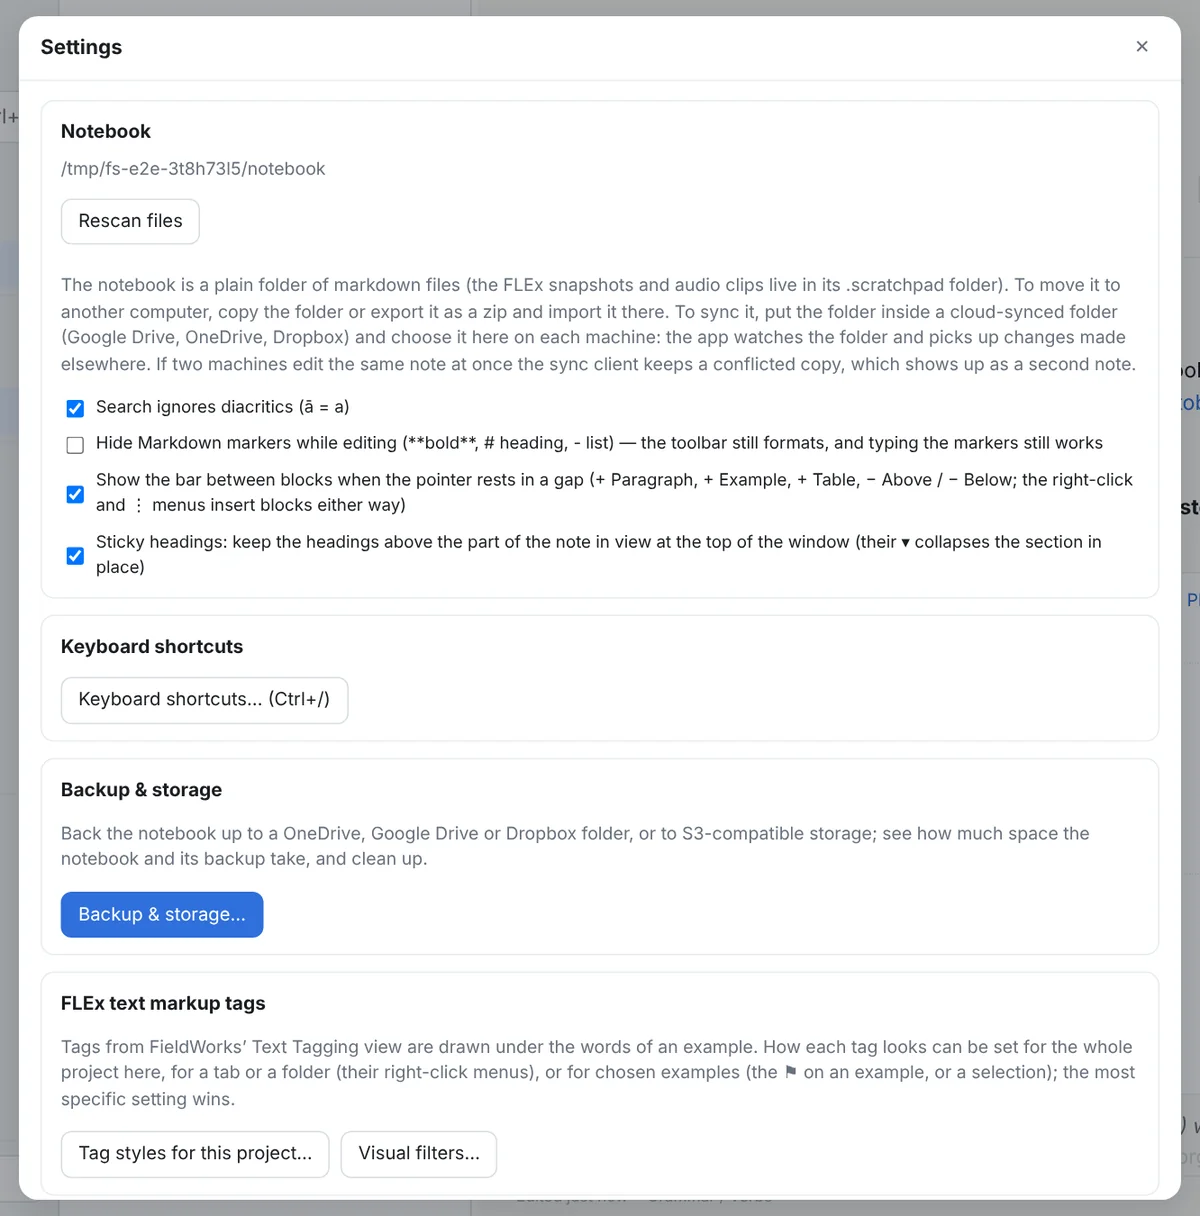
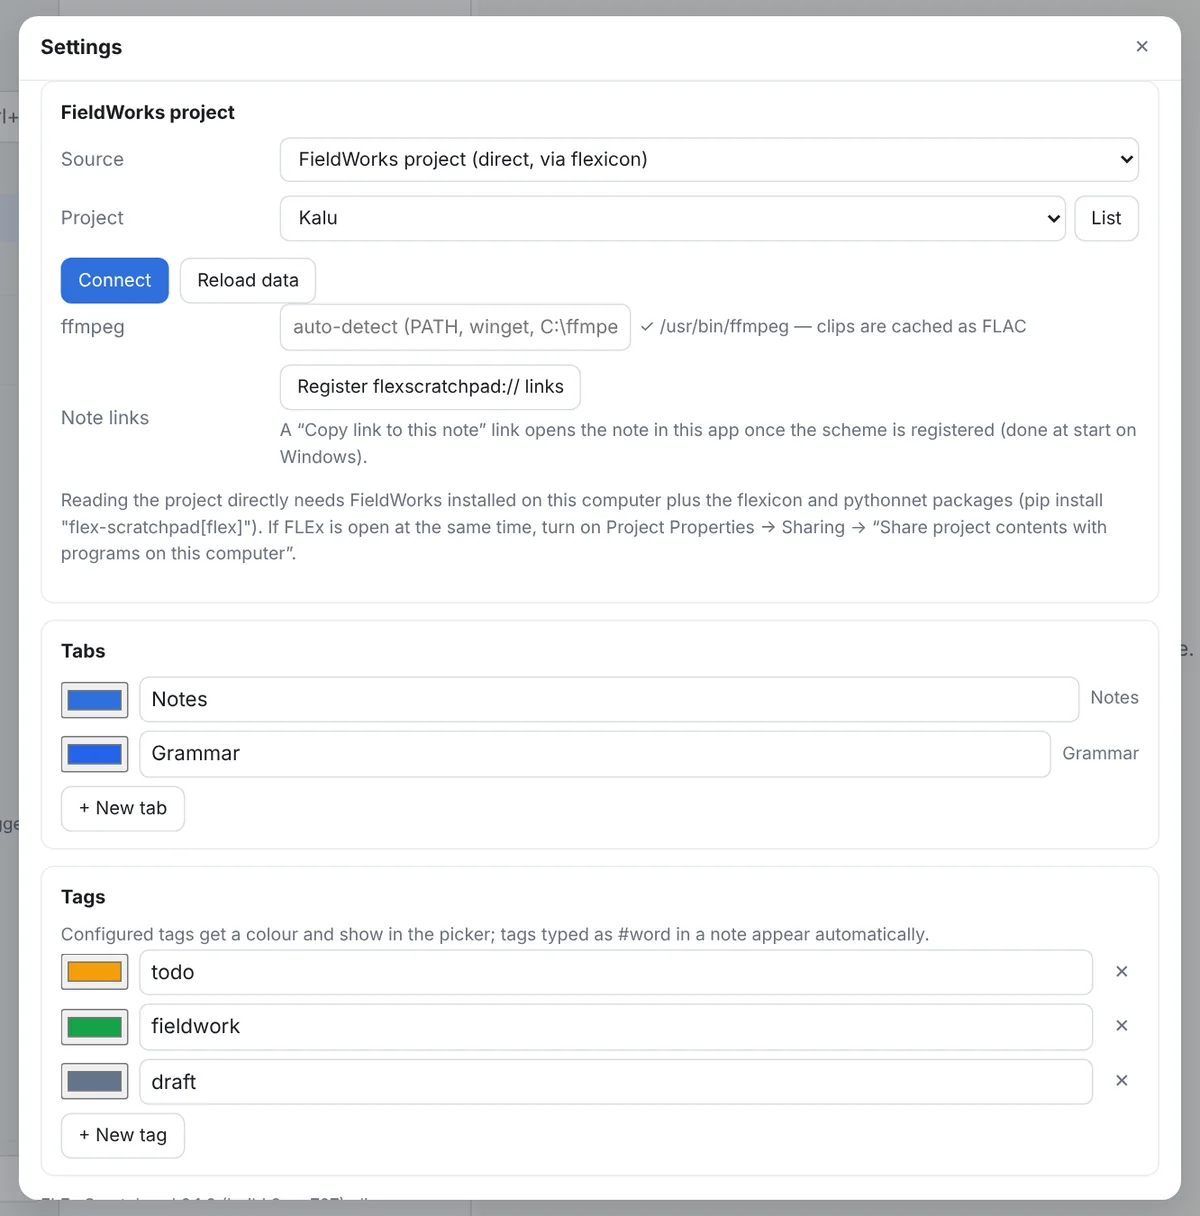
Guide: a FAQ, where FLEx's audio timing comes from, and a Settings picture that lists FieldWorks projects
Seth, 2026-10-20: "recordings depend on the audio segmentation data being
written to FLEx, which can't be done in FLEx directly. If you import ELAN
(maybe SayMore), or from FLExText Editor, then you can have audio data matching
FLEx interlinear text lines. To add such data to texts that already exist in
FLEx as text only, use the FlexText Audio Segmenter tool (FLEx-integrated
release coming soon)"; "add that to the FAQs: 'How do I get audio to match
interlinear text lines in my FLEx Database?'"; and the Settings picture "doesn't
actually show the FLEx project option … users need to see a screenshot where
FLEx projects are listed as a source".

- The guide's audio section says where the start and end times on a text's
  lines come from (a text exported from ELAN as a FLEx file, a FlexText Editor
  file, or the FlexText Audio Segmenter for a text already in FLEx), and that
  FLEx cannot align a recording itself. The home page's audio card, the compare
  table and the README's Play audio row say the same, with the link.
- A new section 15, "Questions people ask", opens with that question and goes on
  to: can it change my project, FieldWorks open at the same time, where the
  notes are, without FieldWorks, release or pre-release, why "snapshot", a paste
  that landed wrong, internet and servers. Both navs link to it as FAQ.
- tools/shoot_guide.py stands in for the project list with three invented names
[…]

diff --git a/docs/guide/index.html b/docs/guide/index.html
@@ -20,6 +20,7 @@
     <a href="../#charts">Charts</a>
     <a href="../#features">Features</a>
     <a class="active" href="./">User guide</a>
+    <a href="#faq">FAQ</a>
     <a href="../#install">Install</a>
     <a data-dl="notes" href="https://github.com/rulingAnts/flex-scratchpad/releases/tag/v0.1.0-beta.2">Release notes</a>
     <a class="nav-gh" href="https://github.com/rulingAnts/flex-scratchpad" target="_blank" rel="noopener">GitHub</a>
@@ -30,7 +31,7 @@
 <div class="guide-wrap">
   <header class="guide-head" id="top">
     <h1>User guide</h1>
-    <p class="lead">Everything FLEx Scratchpad does, in the order you will meet it: the notebook, writing, examples read live from your FieldWorks project, styling and visual filters, audio, collections, text charts and chart notes, searching the charts, exports, backup, and the settings and shortcuts. Every picture is the real program showing its built-in demo project, an invented language.</p>
+    <p class="lead">Everything FLEx Scratchpad does, in the order you will meet it: the notebook, writing, examples read live from your FieldWorks project, styling and visual filters, audio, collections, text charts and chart notes, searching the charts, exports, backup, the settings and shortcuts, and the <a href="#faq">questions people ask</a>. Every picture is the real program showing its built-in demo project, an invented language.</p>
     <div class="meta">
       <span>Describes <b>0.1.0-beta.2</b>, the current release</span>
       <a href="../#install">Install</a>
@@ -64,6 +65,7 @@
       <li><a href="#backup">Backup and storage</a></li>
       <li><a href="#settings">Settings and keyboard shortcuts</a></li>
       <li><a href="#files">Your notes are files</a></li>
+      <li><a href="#faq">Questions people ask</a></li>
       <li><a href="#trouble">When something goes wrong</a></li>
     </ol>
   </details>
@@ -96,6 +98,8 @@
       <li><a href="#settings">Settings and shortcuts</a>
         <ol><li><a href="#se-settings">Settings</a></li><li><a href="#se-keys">Keyboard shortcuts</a></li></ol></li>
       <li><a href="#files">Your notes are files</a></li>
+      <li><a href="#faq">Questions people ask</a>
+        <ol><li><a href="#faq-audio">Audio that matches the lines</a></li><li><a href="#faq-safe">Can it change my project?</a></li><li><a href="#faq-open">FieldWorks open at the same time</a></li><li><a href="#faq-files">Where are my notes?</a></li><li><a href="#faq-nofw">Without FieldWorks</a></li><li><a href="#faq-which">Release or pre-release?</a></li><li><a href="#faq-snapshot">Why "snapshot"?</a></li><li><a href="#faq-paste">A paste landed wrong</a></li><li><a href="#faq-offline">Internet, servers</a></li></ol></li>
       <li><a href="#trouble">When something goes wrong</a></li>
     </ol>
   </nav>
@@ -109,7 +113,7 @@
 
     <h3 id="start-project">Pick your project</h3>
     <p>Install it from the <a href="../#install">download on the home page</a> (an installer or a portable zip; both are the same program) and start it. Open <span class="ui">Settings</span> (the ⚙ button, or <kbd>Ctrl+,</kbd>) and choose the <span class="ui">FLEx project</span>: the list shows the projects FieldWorks has on this computer. The project is opened for reading only. FieldWorks may be open on the same project at the same time; if it refuses to share, the status pill at the top right says so and what to do (in FLEx: <em>Project Properties › Sharing › Share project contents with programs on this computer</em>).</p>
-    <figure class="shot"><img src="../media/guide/settings.webp" loading="lazy" alt="The Settings dialog: the notebook folder, the FLEx project, options, and the links to the tag styles, visual filters and backup"><figcaption>Settings: where the notes live, which project to read, and the doors to tag styles, visual filters and backup.</figcaption></figure>
+    <figure class="shot"><img src="../media/guide/settings.webp" loading="lazy" alt="The Settings dialog: the notebook folder, the FLEx project, options, and the links to the tag styles, visual filters and backup"><figcaption>Settings: where the notes live, the FieldWorks project to read (the source select also takes a <code>.flextext</code> file or the demo), and the doors to tag styles, visual filters and backup. The project names here are invented.</figcaption></figure>
     <p>Two other sources exist for when there is no FieldWorks on the computer: a <code>.flextext</code> file exported from FLEx (texts only), and the built-in <span class="ui">demo</span> project, an invented language used for the pictures in this guide and for trying things out.</p>
     <p>The <span class="ui">notebook</span> is a folder of your choosing (by default <em>Documents\FLEx Scratchpad</em>). Everything you write goes there and nowhere else; see <a href="#files">Your notes are files</a>.</p>
 
@@ -325,7 +329,8 @@
   <section id="audio">
     <h2><span class="num">6</span>Hearing an example</h2>
     <figure class="shot"><img src="../media/guide/audio.webp" loading="lazy" alt="An example playing: ▶ on each line, the playing line lit, and the transport strip with pause, loop and the position"><figcaption>▶ on a line plays that line from the text's recording; the playing line is lit.</figcaption></figure>
-    <p>When a text in FLEx is time-aligned (its lines have begin and end times and a media file), each line of an example has ▶, a range has <span class="ui">Play 1–3</span>, and a transport strip offers pause, loop and scrubbing. The playing line is lit and the note scrolls to it unless you are scrolling yourself; the player stays at the bottom of the view while the example runs on below it. Whenever something plays and its player is not on screen, a <b>Now playing</b> bar at the bottom of the window has pause, stop and the position; <kbd>Esc</kbd> stops.</p>
+    <p>When a text in FLEx is time-aligned (its lines have begin and end times and a media file; <a href="#audio-timing">where that comes from</a>), each line of an example has ▶, a range has <span class="ui">Play 1–3</span>, and a transport strip offers pause, loop and scrubbing. The playing line is lit and the note scrolls to it unless you are scrolling yourself; the player stays at the bottom of the view while the example runs on below it. Whenever something plays and its player is not on screen, a <b>Now playing</b> bar at the bottom of the window has pause, stop and the position; <kbd>Esc</kbd> stops.</p>
+    <div class="note" id="audio-timing"><b>Where the timing comes from.</b> FieldWorks keeps a start and an end time on each line of a text, but has no tool of its own to set them, so a text typed or imported as text alone has no ▶ here. The times arrive with an import: a text exported from <b>ELAN</b> as a FLEx file (SayMore has a FieldWorks export too), or a <b>FlexText Editor</b> file; FieldWorks' interlinear text import keeps the times each line carries. To add them to a text that is already in FLEx as text only, use the <a href="https://audio-segmenter.flextext.app/" target="_blank" rel="noopener">FlexText Audio Segmenter</a>: it aligns a recording to the text's lines and writes a file FLEx imports with the times; a release that works inside FLEx directly is coming soon.</div>
     <p>The first time a line plays, its stretch of the recording is cut and kept in the notebook, so it still plays when the recording is somewhere else. When a text's media file cannot be found, the example says so with <span class="ui">Browse…</span>; the file you pick is remembered for that text and its folder for the others. Charts play too (<a href="#ch-play">Playback</a>) <span class="rel rel-pre" title="In the pre-release 0.1.0-beta.3; not in 0.1.0-beta.2, the current release">beta.3</span>, and the web page and slideshow exports carry the players (<a href="#xp-audio">Audio in the exports</a>) <span class="rel rel-pre" title="In the pre-release 0.1.0-beta.3; not in 0.1.0-beta.2, the current release">beta.3</span>.</p>
   </section>
 
@@ -616,8 +621,45 @@
   </section>
 
   <!-- ============================================================ 15 -->
+  <section id="faq">
+    <h2><span class="num">15</span>Questions people ask</h2>
+    <h3 id="faq-audio">How do I get audio to match the interlinear text lines in my FLEx database?</h3>
+    <p>FieldWorks stores a start and an end time on each line of a text, but it cannot set them itself: it has no tool for aligning a recording to the lines. The times come in with an import. Three ways in:</p>
+    <ul>
+      <li><b>From ELAN.</b> In ELAN, <em>File › Export As › FLEx file</em> writes the text with each annotation's times; FieldWorks' interlinear text import keeps them on the lines. SayMore has a FieldWorks export of its sessions that goes the same way.</li>
+      <li><b>From the FlexText Editor.</b> A <code>.flextext</code> written by the FlexText Editor or the Recorder carries each line's times and the name of the recording; the same import keeps them.</li>
+      <li><b>A text that is already in FLEx, as text only.</b> Use the <a href="https://audio-segmenter.flextext.app/" target="_blank" rel="noopener">FlexText Audio Segmenter</a>: export the text from FLEx, align the recording to its lines there, and import the result; the lines keep their analyses and gain their times. A release that works inside FLEx directly, without the round trip, is coming soon.</li>
+    </ul>
+    <p>Put the recording where FLEx looks for it (the project's <code>LinkedFiles\AudioVisual</code>), and FLEx Scratchpad's ▶ appears on every line of that text; when the file is elsewhere, the example offers <span class="ui">Browse…</span> once and remembers the folder. An <a href="#co-flextext">example collection exported as a FLEx text</a> comes with one recording stitched from its examples, named to pair with it in the Segmenter.</p>
+
+    <h3 id="faq-safe">Can it change my FLEx project?</h3>
+    <p>No. It opens the project for reading only, has no code that writes to one, and its own tests fail if any appears. Everything you write lives in your notebook folder. The only files it makes for FLEx are exports you import yourself, as new texts.</p>
+
+    <h3 id="faq-open">Can FieldWorks be open at the same time?</h3>
+    <p>Yes, when the project is shared: in FLEx, <em>Project Properties › Sharing › Share project contents with programs on this computer</em>. Otherwise FLEx holds the project and the status pill says so; the notes then show their snapshots until it is free. What FieldWorks saves while both are open appears after ↻ on an example or <span class="ui">Refresh all</span>.</p>
+
+    <h3 id="faq-files">Where are my notes, and can I read them without the program?</h3>
+    <p>In the notebook folder you chose (by default <em>Documents\FLEx Scratchpad</em>): a Markdown file per note in a folder per tab. Every example in them is also written as plain text with a link into FLEx, so the files read in any editor, on GitHub, or in ten years. See <a href="#files">Your notes are files</a>.</p>
+
+    <h3 id="faq-nofw">Can I use it on a computer without FieldWorks?</h3>
+    <p>The program needs FieldWorks' own libraries to read a project, so a live project needs Windows and FieldWorks 9. Without them it can open a <code>.flextext</code> file (texts only) or the built-in demo, and a notebook made elsewhere still shows every example from its snapshots. The notes themselves are plain files you can read anywhere.</p>
+
+    <h3 id="faq-which">Should I install the release or the pre-release?</h3>
+    <p>The release is the steadier one; the pre-release has the newest features, which this guide flags <span class="rel rel-pre">beta.3</span>, and the roughest edges. Both are the same program and keep your notebooks; a newer Setup upgrades in place. If you report a problem, say which you are on (Settings shows the version and build).</p>
+
+    <h3 id="faq-snapshot">Why does an example say <em>snapshot</em>?</h3>
+    <p>The project could not be read at that moment (FLEx holds it unshared, it is on another computer, or no project is set), so the example is drawn from the copy kept in the notebook the last time it was read. It is the same lines as last seen; ↻ reads the project again once it is reachable.</p>
+
+    <h3 id="faq-paste">A pasted example landed on the wrong line, or nowhere.</h3>
+    <p>Copy with the <em>Word</em> line showing: the program finds lines by their baseline first, then by morphemes and glosses, and by FLEx's own line numbers when the copy carries them. When it still lands wrong, the dialog lets you insert the paste as text, and <a href="#trouble">When something goes wrong</a> says how to send what the program read.</p>
+
+    <h3 id="faq-offline">Does it need the internet? Does it run a server?</h3>
+    <p>No and no. Everything comes in the download, audio tools included; it never fetches anything, and it starts no server of any kind, not even on this computer, which is what cautious anti-malware software watches for.</p>
+  </section>
+
+  <!-- ============================================================ 16 -->
   <section id="trouble">
-    <h2><span class="num">15</span>When something goes wrong</h2>
+    <h2><span class="num">16</span>When something goes wrong</h2>
     <table class="ref wrap">
       <tr><th>What you see</th><th>What to do</th></tr>
       <tr><td>The window says <em>Waiting for the app…</em> <span class="rel rel-pre" title="In the pre-release 0.1.0-beta.3; not in 0.1.0-beta.2, the current release">beta.3</span></td><td>The page is open but the program behind it has not answered yet; it waits, reloads itself twice, and never shows the sample data in place of your notebook. Your notes are on disk and untouched. If it stays, start the program from a terminal with <code>flex-scratchpad -v</code> and send the log.</td></tr>

diff --git a/docs/index.html b/docs/index.html
@@ -21,6 +21,7 @@
     <a href="#read-only">Read-only</a>
     <a href="#features">Features</a>
     <a href="guide/">User guide</a>
+    <a href="guide/#faq">FAQ</a>
     <a href="#install">Install</a>
     <a data-dl="notes" href="https://github.com/rulingAnts/flex-scratchpad/releases/tag/v0.1.0-beta.2">Release notes</a>
     <a class="nav-gh" href="https://github.com/rulingAnts/flex-scratchpad" target="_blank" rel="noopener">GitHub</a>
@@ -120,7 +121,7 @@
           <th scope="row">Hear exactly this example</th>
           <td class="part">The text's recording, from its player</td>
           <td class="no">No</td>
-          <td class="yes">▶ on each line of a time-aligned text; clips kept with the notebook; players ride along in the web page and slideshow exports</td>
+          <td class="yes">▶ on each line of a time-aligned text (the timing comes in with a text imported from ELAN, SayMore or the FlexText Editor, or from the FlexText Audio Segmenter: <a href="guide/#faq-audio">how</a>); clips kept with the notebook; players ride along in the web page and slideshow exports</td>
         </tr>
         <tr>
           <th scope="row">Publish: Word, Excel, PDF, slides, a FLEx text</th>
@@ -273,7 +274,7 @@
     <div class="feature">
       <div class="ico"><svg viewBox="0 0 24 24" fill="none" stroke="currentColor" stroke-width="2" stroke-linecap="round" stroke-linejoin="round"><path d="M11 5 6 9H3v6h3l5 4z"/><path d="M15.5 8.5a5 5 0 0 1 0 7M18.5 5.5a9 9 0 0 1 0 13"/></svg></div>
       <h3>Hear the example</h3>
-      <p>When a text is time-aligned, each example plays its own stretch of the recording, lighting each line as it plays. Clips are cut and kept with the notebook, so they still play when the recording is somewhere else.</p>
+      <p>When a text is time-aligned, each example plays its own stretch of the recording, lighting each line as it plays. Clips are cut and kept with the notebook, so they still play when the recording is somewhere else. FLEx cannot align a recording itself: the times come in with a text imported from ELAN, SayMore or the FlexText Editor, or from the <a href="https://audio-segmenter.flextext.app/" target="_blank" rel="noopener">FlexText Audio Segmenter</a> for a text that is already in FLEx (<a href="guide/#faq-audio">how</a>).</p>
     </div>
     <div class="feature">
       <div class="ico"><svg viewBox="0 0 24 24" fill="none" stroke="currentColor" stroke-width="2" stroke-linecap="round" stroke-linejoin="round"><path d="M4 7V4h16v3M9 20h6M12 4v16"/></svg></div>

diff --git a/tools/shoot_guide.py b/tools/shoot_guide.py
@@ -327,10 +327,24 @@ def main(argv: list[str]) -> int:
         step("window", s_window)
 
         def s_settings():
+            # This machine has no FieldWorks, so the project list would be empty and the source "demo"; the
+            # picture has to show what a Windows user sees (Seth, 2026-10-20: "users need to see a screenshot
+            # where FLEx projects are listed as a source"): three invented project names stand in.
+            page.evaluate("""() => { window.__realBridge = window.__flexBridge;
+              window.__flexBridge = (req) => JSON.parse(req).method === 'flex_projects'
+                ? Promise.resolve(JSON.stringify({ result: ['Kalu', 'Kalu Texts 2024', 'Sandbox'] })) : window.__realBridge(req); }""")
             page.locator("#btn-settings").click()
             m = modal()
+            block = m.locator(".setting-block", has_text="FieldWorks project")
+            block.locator("select").first.select_option("lcm")
+            block.locator("button", has_text="List").click()
+            page.wait_for_function("() => [...document.querySelectorAll('.modal .setting-block select')].some((s) => [...s.options].some((o) => o.value === 'Kalu Texts 2024'))")
+            block.locator("select").nth(1).select_option("Kalu")
+            block.evaluate("(e) => e.scrollIntoView({ block: 'start' })")
+            page.wait_for_timeout(300)
             shot("settings", m)
             esc()
+            page.evaluate("() => { window.__flexBridge = window.__realBridge; }")
         step("settings", s_settings)
 
         def s_shortcuts():

diff --git a/CLAUDE.md b/CLAUDE.md
@@ -1376,15 +1376,19 @@ compares notes WITHOUT their copies; `test_flex_objects_get_a_readable_copy_in_t
   Chromium's screencast, ffmpeg): re-run it after a UI change and look at the result.
   THE USER GUIDE (Seth, 2026-10-20: "thorough documentation with screenshots, generated screenshots, for everything
   you can do with this app and a clear sort of table of contents … in the user-facing website"): `docs/guide/index.html`
-  (+ `assets/guide.css`), fifteen numbered sections (getting started, the notebook, writing, examples, styling and
+  (+ `assets/guide.css`), sixteen numbered sections (getting started, the notebook, writing, examples, styling and
   filters, audio, collections, charts, chart notes, chart search, exports, backup, settings and shortcuts, the files,
-  troubleshooting) with a sticky contents list (a `<details>` on a phone; an IntersectionObserver marks the section in
+  a FAQ, troubleshooting) with a sticky contents list (a `<details>` on a phone; an IntersectionObserver marks the section in
   view and opens its sub-headings) and ~60 pictures in `docs/media/guide/*.webp`, plain `<img>`s (no manifest: they are
   committed with the page). `tools/shoot_guide.py` makes them from the demo through the e2e bridge — it builds a
   notebook (a chapter note with every block kind, a collection with groups and notes, a rule collection, a chart note
   with list / notes / rule columns, attachments), photographs each view (`shot(name, target)` crops the element with
   padding; popovers on their own, dialogs by `.modal`), renders the Word and Excel exports through LibreOffice and
-  pdftoppm, and prints the names that failed; `python tools/shoot_guide.py name…` re-shoots some. Re-run it after a UI
+  pdftoppm, and prints the names that failed; `python tools/shoot_guide.py name…` re-shoots some. The Settings picture stands in for
+  `flex_projects` with three invented names through the bridge (Seth, 2026-10-20: "users need to see a screenshot where
+  FLEx projects are listed as a source"; this machine has no FieldWorks). The guide's section 15 is a FAQ (`#faq`); its first
+  question, audio matching the lines, says where FLEx's segment times come from (ELAN's FLEx export, a FlexText Editor
+  file, the FlexText Audio Segmenter) — FLEx cannot align a recording itself (Seth, 2026-10-20). Re-run it after a UI
   change and LOOK at the pictures. `tests/js/site-guide.test.js` fails when the page names a picture that is not there
   (or a picture nobody shows), when an in-page link has no target, when a section or sub-heading is missing from the
   contents, or when the home page stops linking to `guide/`. The README's how-to table and the guide say the same

diff --git a/README.md b/README.md
@@ -149,7 +149,7 @@ elsewhere (marked *cached*).
 | Style words in an example | Click a word → Highlight / Bold / Underline / Italic / Strike / Colour; Shift+click another word for a range; *Characters* for part of a word; *match text* (then a colour or style) for every occurrence |
 | Style part of a free translation | Drag across the words in the free (or literal) translation, release, and pick a colour or style; a plain click styles the whole line |
 | Choose the lines shown | The `⋯` on an embed: Word, Morphemes, Morph glosses, Lex. entries, Word gloss, Category, Free, Literal, Notes; segment range |
-| Play audio | `▶` beside a timed segment; *Play 3–5* on a range; loop and scrub in the transport strip |
+| Play audio | `▶` beside a timed segment; *Play 3–5* on a range; loop and scrub in the transport strip. A text has ▶ only when its lines carry start and end times in FLEx, which FieldWorks itself cannot set: they come in through FieldWorks' interlinear text import, from a text ELAN exported as a FLEx file (SayMore has a FieldWorks export too) or a FlexText Editor file, or, for a text already in FLEx as text only, from the [FlexText Audio Segmenter](https://audio-segmenter.flextext.app/) (a release that works inside FLEx is coming) |
 | Table | *Table* button; click a cell to edit (**Tab** moves on, **Shift+Enter** breaks a line, **Enter** goes down); *Column ▾ / Row ▾ / Table ▾* for styling |
 | Chart | *Chart* button; double-click the chart or use *Edit chart* |
 | Search | The box at the top left (**Ctrl+Shift+F**); `tag:todo`, `tab:Grammar`, `"exact phrase"`; **Ctrl+F** finds in the open note |
